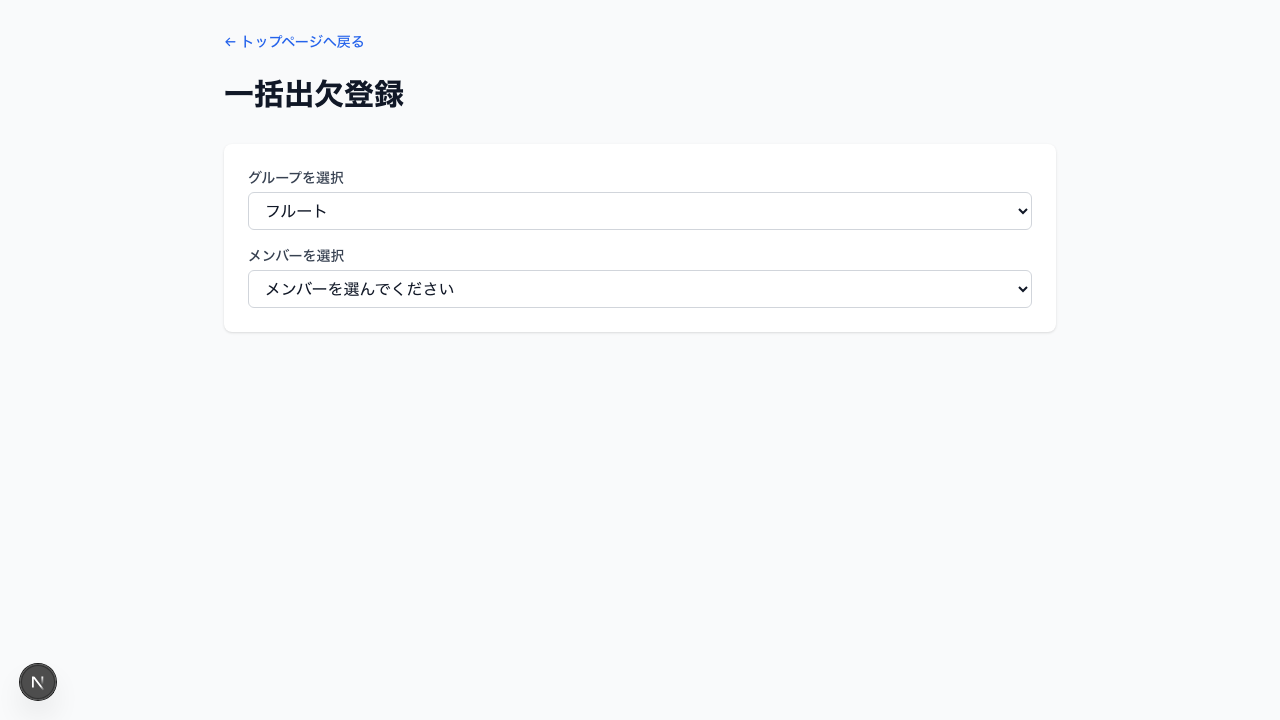
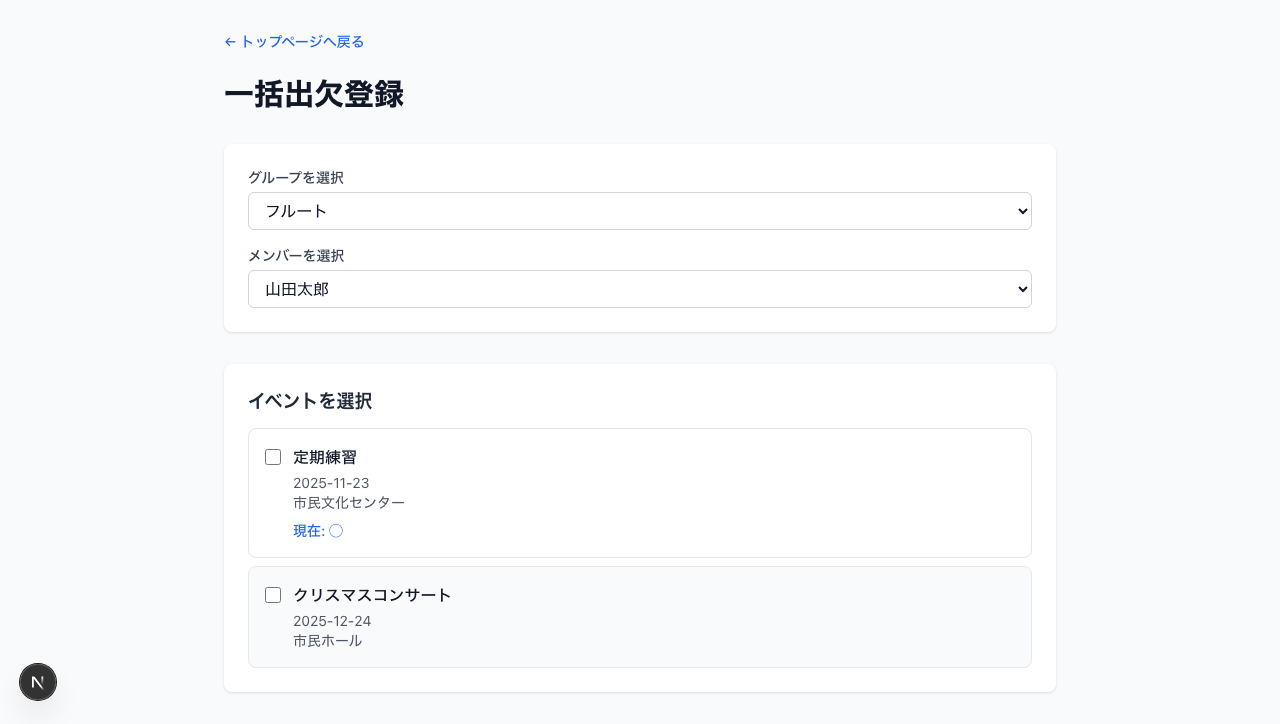
fix: スクリーンショット品質を改善
- 出欠登録フォームのメンバー名入力を正しいセレクタに修正（#newMember）
- 出欠登録後に実際に登録を実行するように変更
- イベント詳細ページでNext.js開発ツールメニューを閉じる処理を追加
- 一括登録画面のメンバー選択で正しいID（#group-select, #member-select）を使用

🤖 Generated with [Claude Code](https://claude.com/claude-code)

diff --git a/e2e/capture-screenshots.spec.ts b/e2e/capture-screenshots.spec.ts
@@ -334,29 +334,23 @@ test.describe('使い方ガイド スクリーンショット', () => {
       await page.waitForLoadState('networkidle');
 
       // グループ選択
-      const groupSelect = page.locator('select').first();
+      const groupSelect = page.locator('#group');
       if (await groupSelect.isVisible()) {
-        const options = await groupSelect.locator('option').allTextContents();
-        if (options.length > 1) {
-          await groupSelect.selectOption({ index: 1 });
-          await page.waitForTimeout(500);
+        await groupSelect.selectOption({ index: 1 });
+        await page.waitForTimeout(500);
 
-          // メンバー選択
-          const memberSelect = page.locator('select').nth(1);
-          if (await memberSelect.isVisible()) {
-            const memberOptions = await memberSelect.locator('option').allTextContents();
-            if (memberOptions.length > 1) {
-              await memberSelect.selectOption({ index: 1 });
-              await page.waitForTimeout(300);
+        // 新しいメンバー名を入力
+        const nameInput = page.locator('#newMember');
+        if (await nameInput.isVisible()) {
+          await nameInput.fill('山田太郎');
+          await page.waitForTimeout(300);
+        }
 
-              // 参加ボタンをクリック
-              const attendButton = page.locator('button:has-text("◯")').first();
-              if (await attendButton.isVisible()) {
-                await attendButton.click();
-                await page.waitForTimeout(500);
-              }
-            }
-          }
+        // 参加ボタンをクリック
+        const attendButton = page.locator('button:has-text("◯")').first();
+        if (await attendButton.isVisible()) {
+          await attendButton.click();
+          await page.waitForTimeout(300);
         }
       }
 
@@ -364,6 +358,13 @@ test.describe('使い方ガイド スクリーンショット', () => {
         path: `${SCREENSHOT_DIR}/08-attendance-register-status-selected.png`,
         fullPage: true,
       });
+
+      // 実際に登録を行う（イベント詳細画面でアコーディオンを表示するため）
+      const submitButton = page.locator('button:has-text("登録する")');
+      if (await submitButton.isVisible()) {
+        await submitButton.click();
+        await page.waitForTimeout(1000);
+      }
     });
   });
 
@@ -391,8 +392,12 @@ test.describe('使い方ガイド スクリーンショット', () => {
       await page.goto(`/${orgId}/events/${eventId}`);
       await page.waitForLoadState('networkidle');
 
-      // 最初のアコーディオンをクリック
-      const accordion = page.locator('button[aria-expanded]').first();
+      // 開発ツールメニューを閉じる（ページ本体をクリック）
+      await page.click('body', { position: { x: 640, y: 300 } });
+      await page.waitForTimeout(100);
+
+      // 最初のアコーディオンをクリック（aria-controlsがあるボタンはアコーディオンのみ）
+      const accordion = page.locator('button[aria-controls]').first();
       if (await accordion.isVisible()) {
         await accordion.click();
         await page.waitForTimeout(300);
@@ -449,11 +454,21 @@ test.describe('使い方ガイド スクリーンショット', () => {
       await page.goto(`/${orgId}/my-register`);
       await page.waitForLoadState('networkidle');
 
+      // まずグループを選択
+      const groupSelect = page.locator('#group-select');
+      if (await groupSelect.isVisible()) {
+        const groupOptions = await groupSelect.locator('option').allTextContents();
+        if (groupOptions.length > 1) {
+          await groupSelect.selectOption({ index: 1 });
+          await page.waitForTimeout(500);
+        }
+      }
+
       // メンバーを選択
-      const memberSelect = page.locator('select').first();
+      const memberSelect = page.locator('#member-select');
       if (await memberSelect.isVisible()) {
-        const options = await memberSelect.locator('option').allTextContents();
-        if (options.length > 1) {
+        const memberOptions = await memberSelect.locator('option').allTextContents();
+        if (memberOptions.length > 1) {
           await memberSelect.selectOption({ index: 1 });
           await page.waitForTimeout(500);
         }
